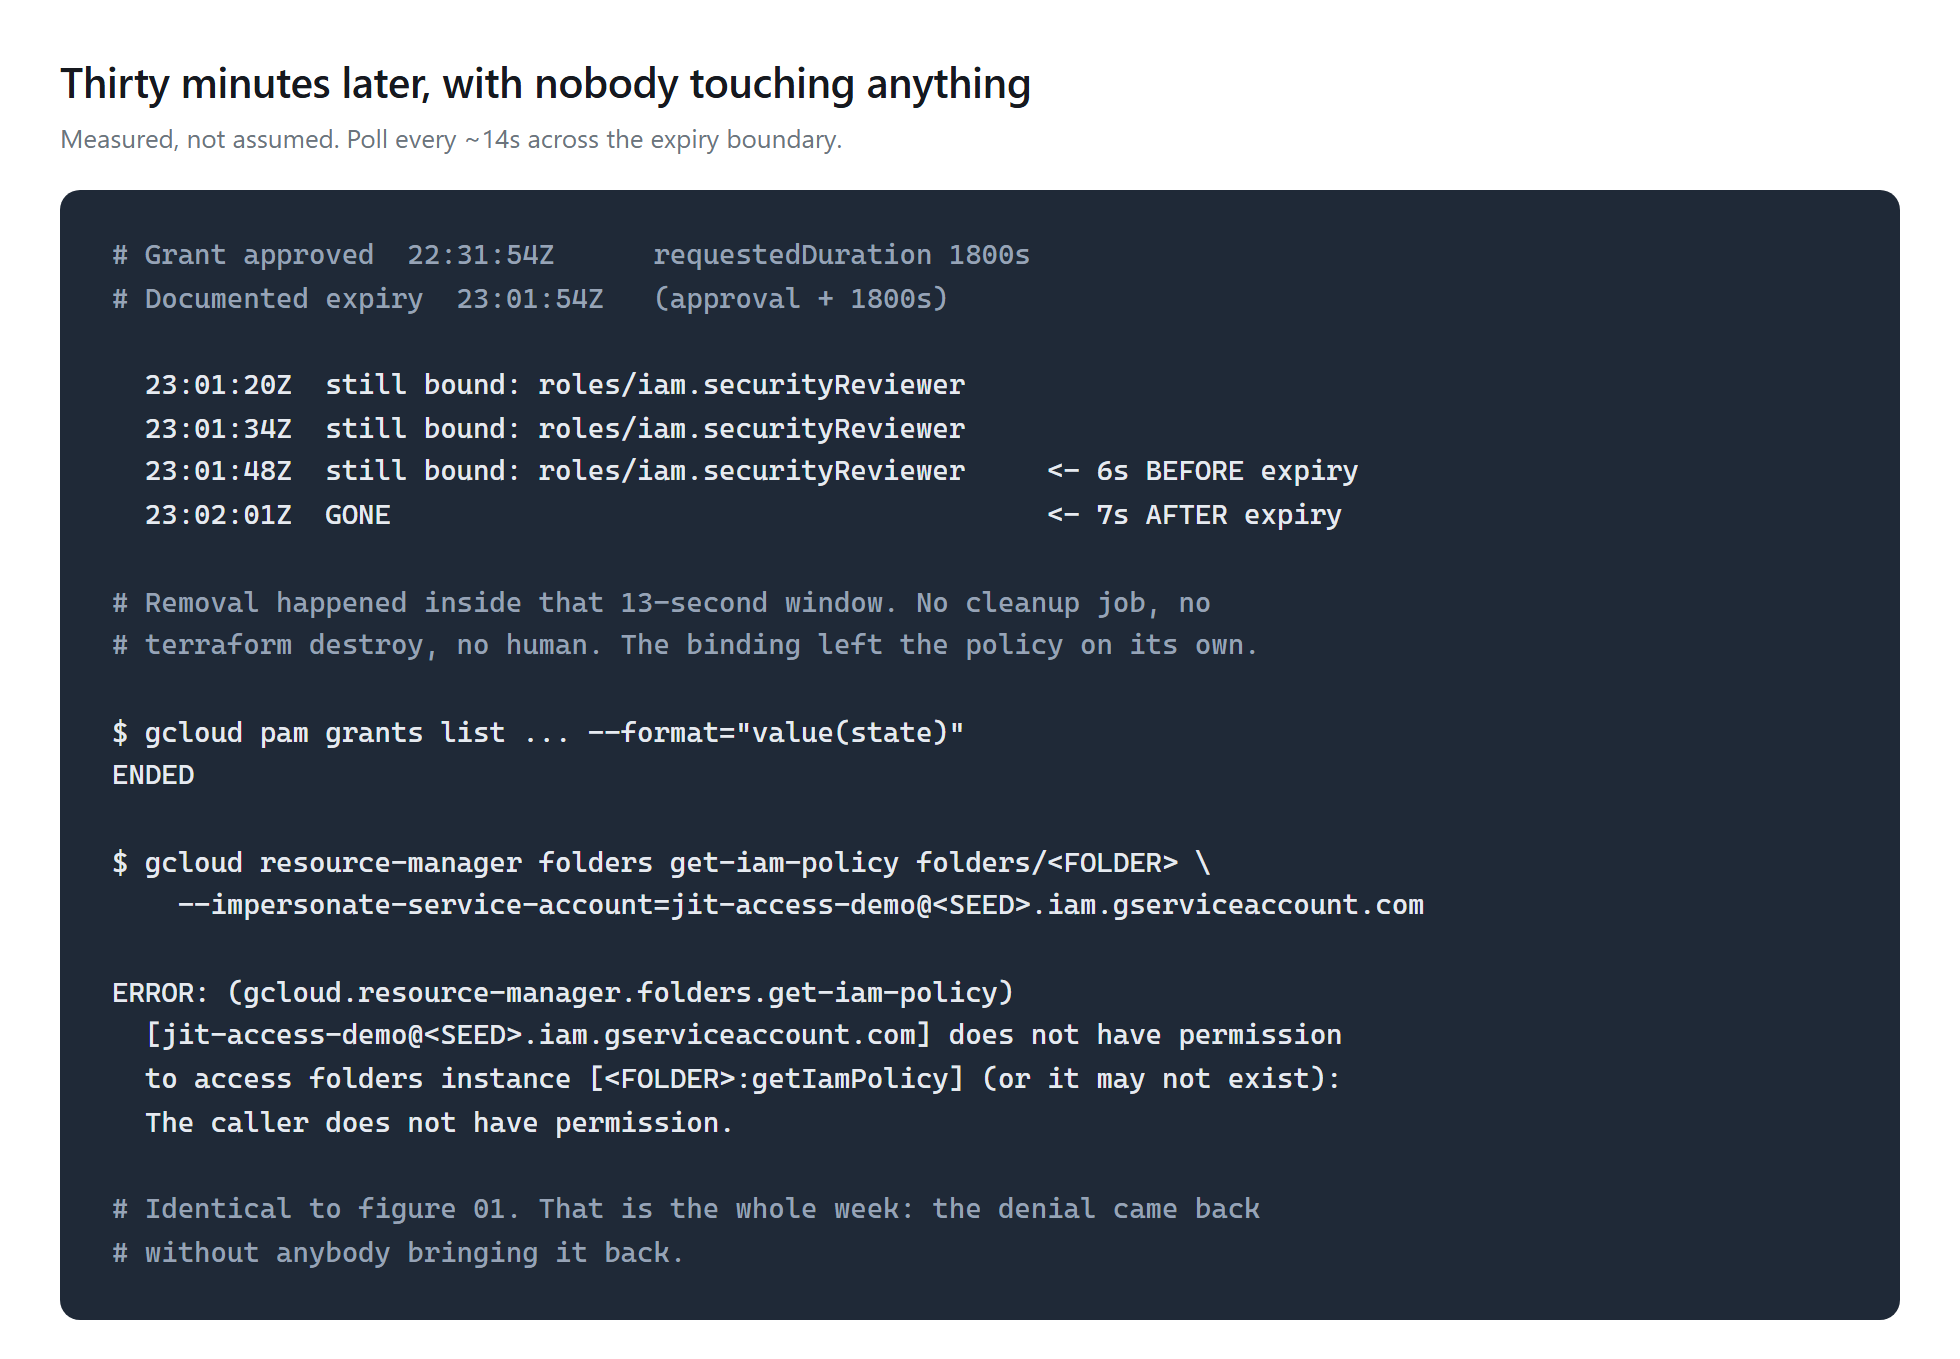
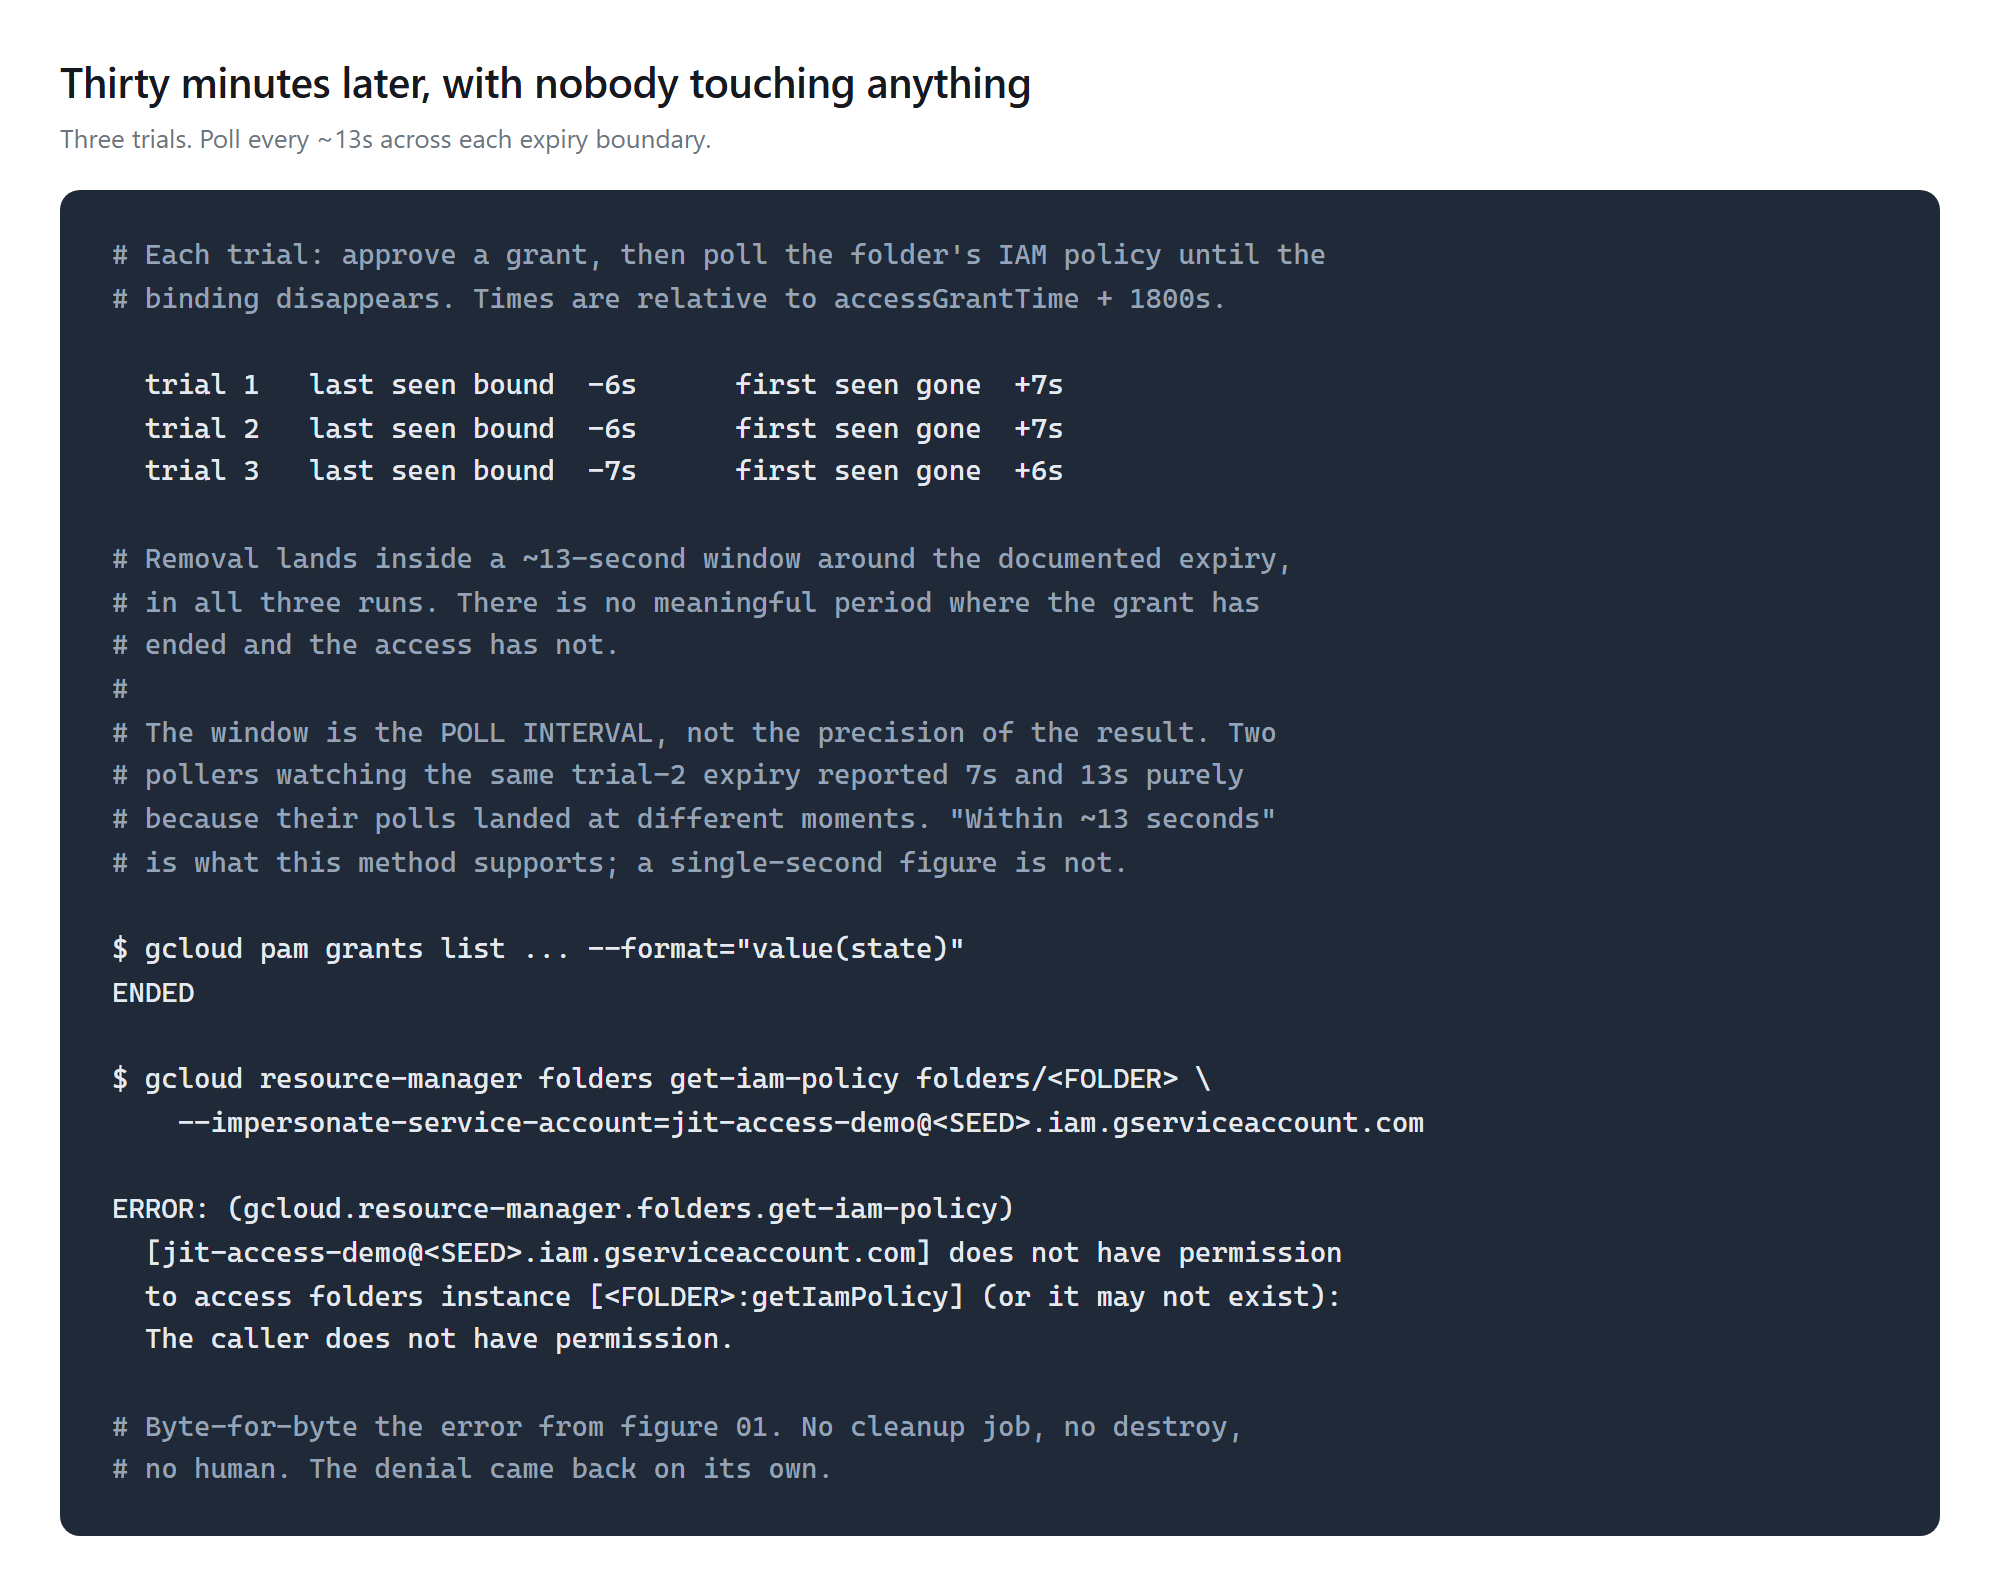
Week 11 complete: three trials, consistent to the second
Trial 1  bound -6s  gone +7s
Trial 2  bound -6s  gone +7s
Trial 3  bound -7s  gone +6s

Removal lands inside a ~13-second window around the documented expiry
in every run, so there is no meaningful period where the grant has ended
and the access has not. The feared gap does not exist.

Stated as a range rather than a number on purpose. Two pollers watching
the SAME trial-2 expiry reported 7s and 13s, differing only in where
their polls landed - so "within roughly 13 seconds" is what this method
supports and a single-second figure is not.

Figure 06 now shows all three trials and says explicitly that the window
is the poll interval, not the precision of the result.

Roadmap row moves to Complete with its article link, which is what the
checker's third state was added for yesterday.

Changed region(s): [[0.0311, 0.0309, 0.9959, 0.989]]

diff --git a/README.md b/README.md
@@ -155,7 +155,7 @@ every grant can be demonstrated against something real rather than described.
 | [08](./week-08-iam-deny) | [IAM deny policies and custom roles](https://jayanthkatta.com/blog/week-08-iam-deny/) | Deny policies, Troubleshooter v3 | ✅ Complete |
 | [09](./week-09-sa-lifecycle) | [Service account lifecycle](https://jayanthkatta.com/blog/week-09-sa-lifecycle/) | Activity Analyzer, Org Policy | ✅ Complete |
 | [10](./week-10-group-access) | [Group-based access control](https://jayanthkatta.com/blog/week-10-group-access/) | Cloud Identity, Google Groups | ✅ Complete |
-| [11](./week-11-jit-access) | Privileged access and just-in-time elevation | Privileged Access Manager | 🚧 In progress |
+| [11](./week-11-jit-access) | [Privileged access and just-in-time elevation](https://jayanthkatta.com/blog/week-11-jit-access/) | Privileged Access Manager | ✅ Complete |
 | 12 | Secret management | Secret Manager, Cloud KMS, CMEK, rotation | 📅 Planned |
 
 ### Phase 3 — Networking (Weeks 13–19)
